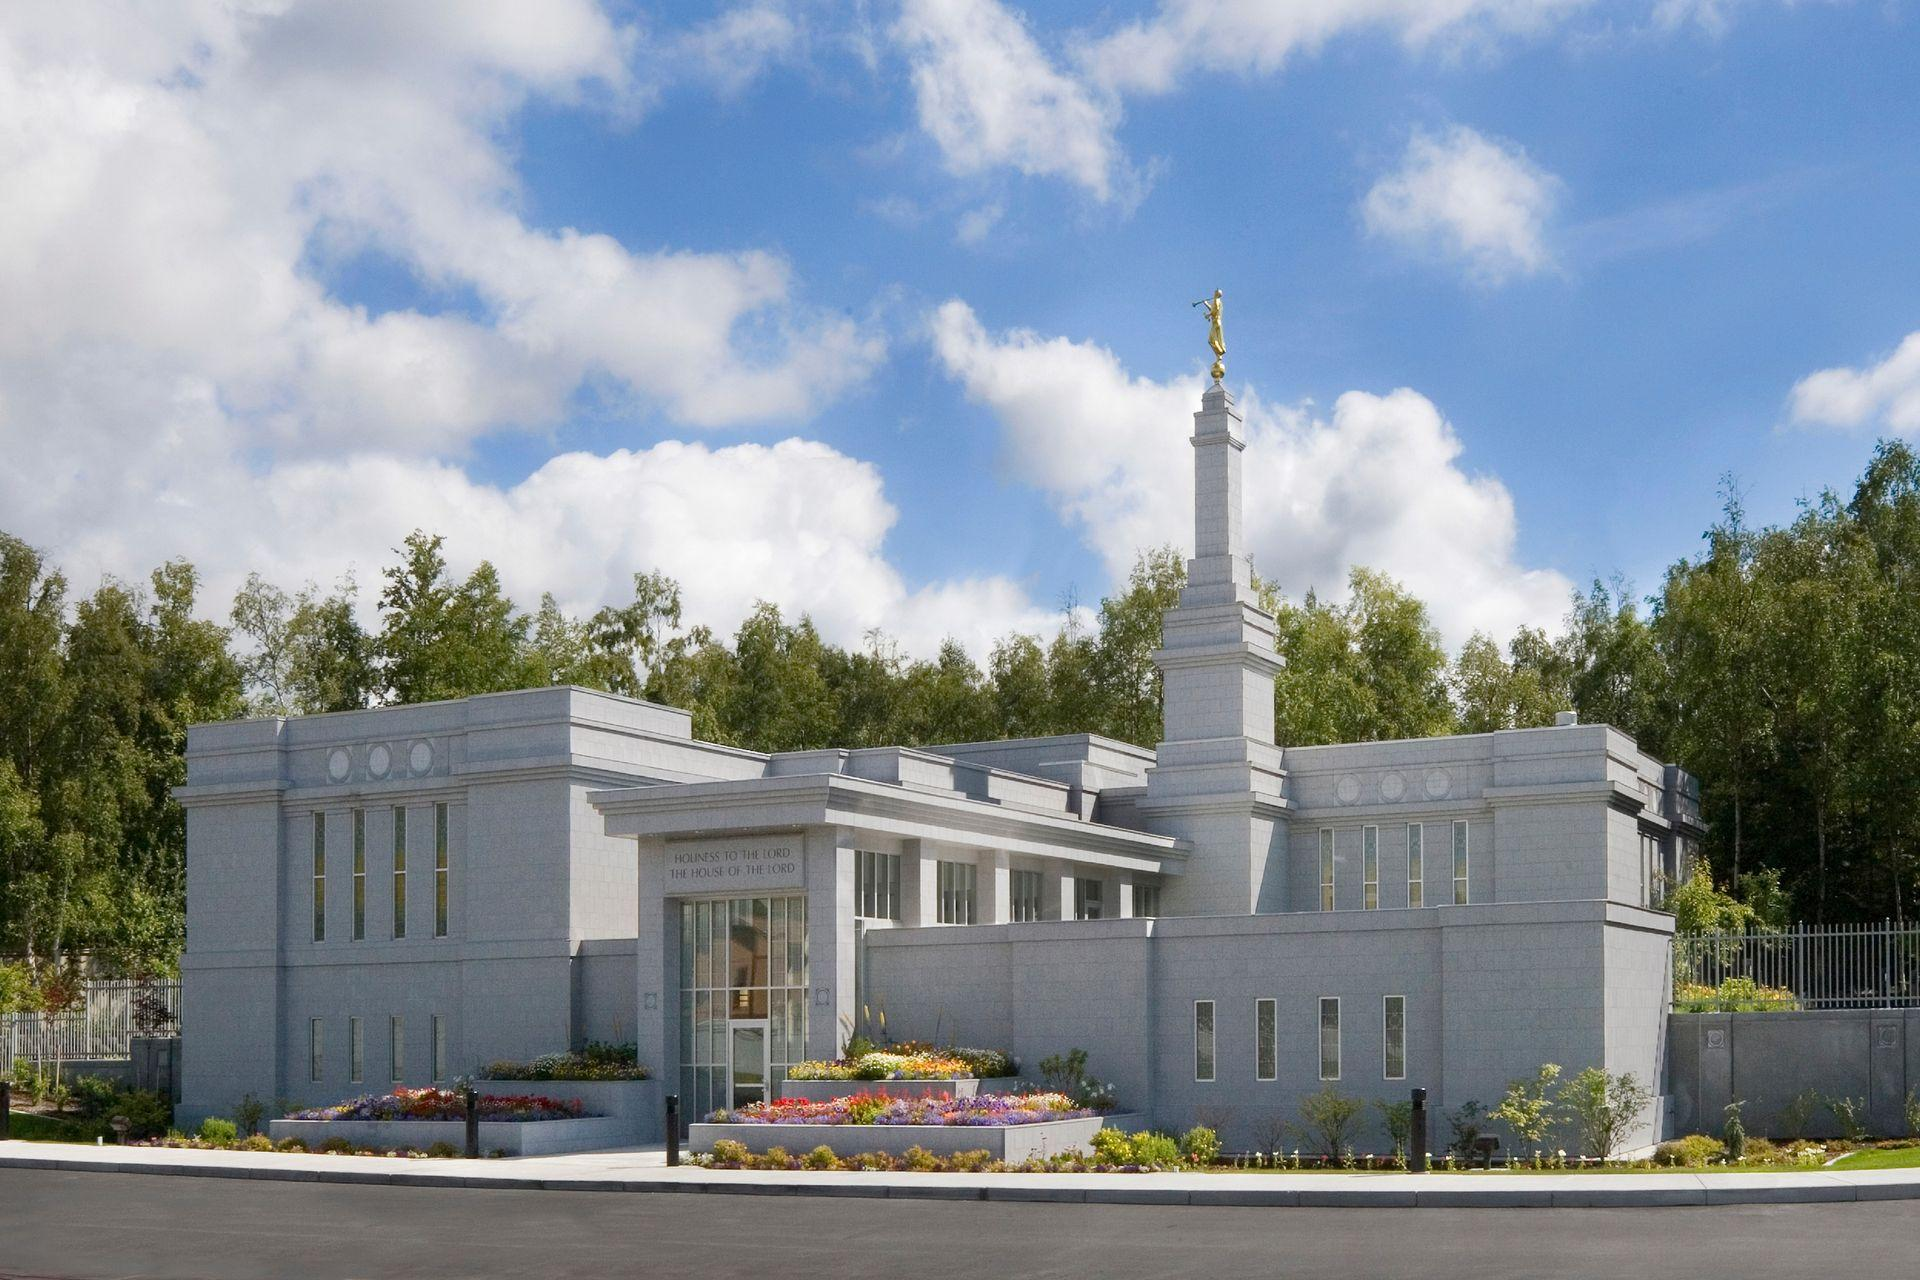
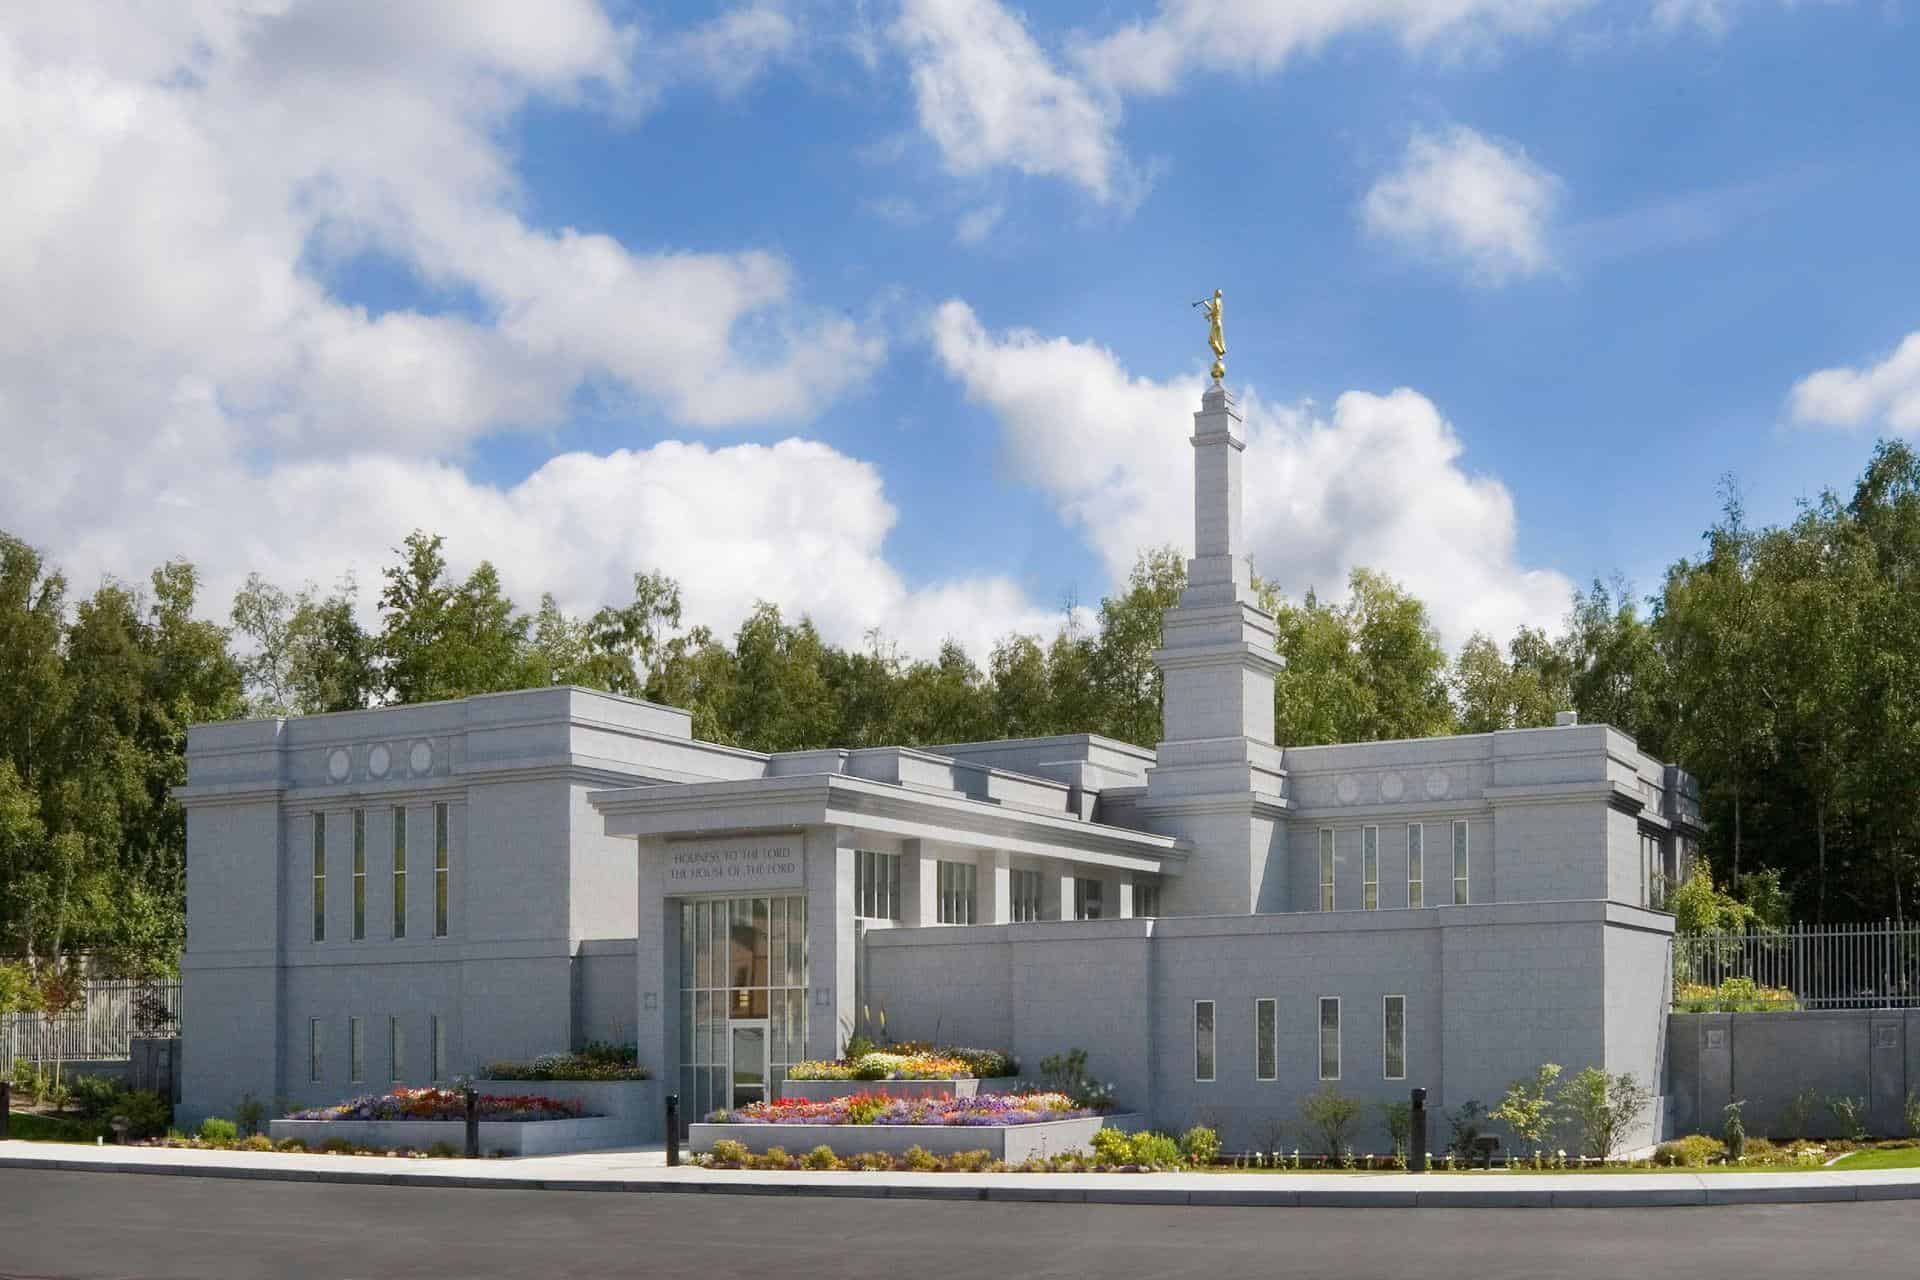
ultimate changes to my temples page

diff --git a/temples.html b/temples.html
@@ -19,7 +19,7 @@
 </head>
 <body>
     <header>
-        <h1>Temple Album</h1>
+        <h2>Temple Album</h2>
 
         <button id="menu-button">☰</button>
 
@@ -34,43 +34,45 @@
         </nav>
     </header>
     <main>
-        <h2>Home</h2>
-        <figure class="temple-card">
-            <figcaption>Concepción Chile Temple</figcaption>
-            <img src="images/concepcion-temple.jpg" alt="Concepción Chile Temple" width="300" height="200">
-        </figure>
-        <figure class="temple-card">
-            <figcaption>Rome Italy Temple</figcaption>
-            <img src="images/roma-temple.png" alt="Rome Italy Temple" width="300" height="200">
-        </figure>
-        <figure class="temple-card">
-            <figcaption>Anchorage Alaska Temple</figcaption>
-            <img src="images/anchorage-alaska-temple.jpg" alt="Anchorage Alaska Temple" width="300" height="200">
-        </figure>
-        <figure class="temple-card">
-            <figcaption>Mexico City Temple</figcaption>
-            <img src="images/mexico-city-temple.jpg" alt="Mexico City Temple" width="300" height="200">
-        </figure>
-        <figure class="temple-card">
-            <figcaption>Bern Switzerland Temple</figcaption>
-            <img src="images/bern-switzerland-temple.jpg" alt="Bern Switzerland Temple" width="300" height="200">
-        </figure>
-        <figure class="temple-card">
-            <figcaption>San Diego California Temple</figcaption>
-            <img src="images/san-diego-temple.png" alt="San Diego California Temple" width="300" height="200">
-        </figure>
-        <figure class="temple-card">
-            <figcaption>Preston England Temple</figcaption>
-            <img src="images/preston-england-temple.jpg" alt="Preston England Temple" width="300" height="200">
-        </figure>
-        <figure class="temple-card">
-            <figcaption>Aba Nigeria Temple</figcaption>
-            <img src="images/aba-nigeria-temple.jpg" alt="Aba Nigeria Temple" width="300" height="200">
-        </figure>
-        <figure class="temple-card">
-            <figcaption>Buenos Aires Argentina Temple</figcaption>
-            <img src="images/buenos-aires-temple.jpg" alt="Buenos Aires Argentina Temple" width="300" height="200">
-        </figure>
+        <h1>Home</h1>
+        <div class="gallery">
+            <figure class="temple-card">
+                <img src="images/concepcion-chile-temple.jpg" alt="Concepción Chile Temple" loading="lazy">
+                <figcaption>Concepción Chile Temple</figcaption>
+            </figure>
+            <figure class="temple-card">
+                <img src="images/roma-temple.jpg" alt="Rome Italy Temple" width="300" height="200" loading="lazy">
+                <figcaption>Rome Italy Temple</figcaption>
+            </figure>
+            <figure class="temple-card">
+                <img src="images/anchorage-alaska-temple.jpg" alt="Anchorage Alaska Temple" width="300" height="200" loading="lazy">
+                <figcaption>Anchorage Alaska Temple</figcaption>
+            </figure>
+            <figure class="temple-card">
+                <img src="images/mexico-city-temple.jpg" alt="Mexico City Temple" width="300" height="200" loading="lazy">
+                <figcaption>Mexico City Temple</figcaption>
+            </figure>
+            <figure class="temple-card">
+                <img src="images/bern-switzerland-temple.jpg" alt="Bern Switzerland Temple" width="300" height="200" loading="lazy">
+                <figcaption>Bern Switzerland Temple</figcaption>
+            </figure>
+            <figure class="temple-card">
+                <img src="images/san-diego-temple.jpg" alt="San Diego California Temple" width="300" height="200" loading="lazy">
+                <figcaption>San Diego California Temple</figcaption>
+            </figure>
+            <figure class="temple-card">
+                <img src="images/preston-england-temple.jpg" alt="Preston England Temple" width="300" height="200" loading="lazy">
+                <figcaption>Preston England Temple</figcaption>
+            </figure>
+            <figure class="temple-card">
+                <img src="images/aba-nigeria-temple.jpg" alt="Aba Nigeria Temple" width="300" height="200" loading="lazy">
+                <figcaption>Aba Nigeria Temple</figcaption>
+            </figure>
+            <figure class="temple-card">
+                <img src="images/buenos-aires-temple.jpg" alt="Buenos Aires Argentina Temple" width="300" height="200" loading="lazy">
+                <figcaption>Buenos Aires Argentina Temple</figcaption>
+            </figure>
+        </div>
     </main>
 
     <footer>

diff --git a/styles/temples.css b/styles/temples.css
@@ -17,29 +17,34 @@ body {
     background-color: #8ad0f8;
     border: none;
     color: #333;
-    font-size: 24px;
+    font-size: 2rem;
     cursor: pointer;
-    margin: 0 auto 1rem;
+    background: none;
 }
 
 /* Header */
 
 header {
-    display: flex;
-    justify-content: space-between;
-    align-items: center;
     padding: 20px;
     background-color: #8ad0f8;
 }
 
-header h1 {
+.header-top {
+    display: flex;
+    justify-content: space-between;
+    align-items: center;
+}
+
+header h2 {
     color: #333;
     font-size: 24px;
+    margin-bottom: 1rem;
 }
 
 /* Navigation */
 
-nav {display: none;
+nav {
+    display: none;
 }
 
 nav.open {
@@ -59,11 +64,13 @@ nav a{
     color: #333;
     font-weight: 700;
     transition: background-color 0.3s, color 0.3s;
+    padding: 0.5rem 1rem;
+    border-radius: 6px;
 }
 
 nav a:hover {
-    background-color: #8ad0f8;
-    color: #918f15;
+    background-color: #5cb9ec;
+    color: white;
 }
 
 /* Main Content */
@@ -72,17 +79,18 @@ main {
     max-width: 1200px;
     margin: 0  auto;
     padding: 2rem 1rem;
-
-    display: grid;
-    grid-template-columns: 1fr;
-    gap: 20px;
 }
 
 main h1 {
-    color: #333;
-    grid-column: span 3;
     text-align: center;
-    margin: 2rem 0;
+    margin-bottom: 2rem;
+    color: #333;
+}
+
+.gallery {
+    display: grid;
+    grid-template-columns: 1fr;
+    gap: 20px;
 }
 
 /* Temple Cards */
@@ -91,19 +99,38 @@ main h1 {
   background-color: #fff;
   border-radius: 8px;
   box-shadow: 0 4px 8px rgba(0, 0, 0, 0.1);
-  width: 300px;
+
   overflow: hidden;
   transition: transform 0.2s;
+
+  width: 100%;
+  max-width: 350px;
+  margin: 0 auto;
 }
+
+.temple-card img {
+  width: 100%;
+  height: 250px;
+  object-fit: cover;
+  display: block;
+}
+
 .temple-card:hover {
   transform: translateY(-5px);
+}
+
+.temple-card figcaption {
+  padding: 1rem;
+  text-align: center;
+  font-weight: bold;
+  color: #333;
 }
 
 /* Footer */
 footer {
     text-align: center;
     padding: 20px;
-    background-color: #8ad0f8;
+    background-color: #5cb9ec;
     color: #333;
     margin-top: 20px;
 }

diff --git a/styles/temples-large.css b/styles/temples-large.css
@@ -1,14 +1,20 @@
 @media screen and (min-width: 768px) {
 
+.gallery {
+    display: grid;
+    grid-template-columns: repeat(3, minmax(250px, 1fr));
+    gap: 20px;
+}
+
 header {
     display: flex;
     justify-content: space-between;
     align-items: center;
     padding: 20px;
-    background-color: #8ad0f8;
+    background-color: #5cb9ec;;
 }
 
-header h1 {
+header h2 {
     color: #333;
     font-size: 24px;
     margin: 0;
@@ -25,22 +31,18 @@ nav {
 nav ul {
     display: flex;
     flex-direction: row;
+    justify-content: center;
+    align-items: center;
     gap: 20px;
+}
+
+nav a {
+    padding: 0.5rem 1rem;
 }
 
 main {
     max-width: 1200px;
-    margin: 20px auto;
-
-    display: grid;
-    grid-template-columns: repeat(3, 1fr);
-    gap: 20px;
+    margin: 30px auto;
+    padding: 2rem;
 }
-main h1 {
-    color: #333;
-    grid-column: span 3;
-    text-align: center;
-    margin: 2rem 0;
-}
-
 }

diff --git a/scripts/temples.js b/scripts/temples.js
@@ -1,5 +1,5 @@
 // Footer
-const year = document.getElementById('year');
+const year = document.getElementById('currentYear');
 const currentYear = new Date().getFullYear();
 year.textContent = currentYear;
 
@@ -15,9 +15,9 @@ menuButton.addEventListener('click', () => {
     nav.classList.toggle('open');
 
     if (nav.classList.contains('open')) {
-        menuButton.setAttribute = "✖";
+        menuButton.textContent = "✖";
     }
     else {
-        menuButton.setAttribute = "☰";
+        menuButton.textContent = "☰";
     }
 });
